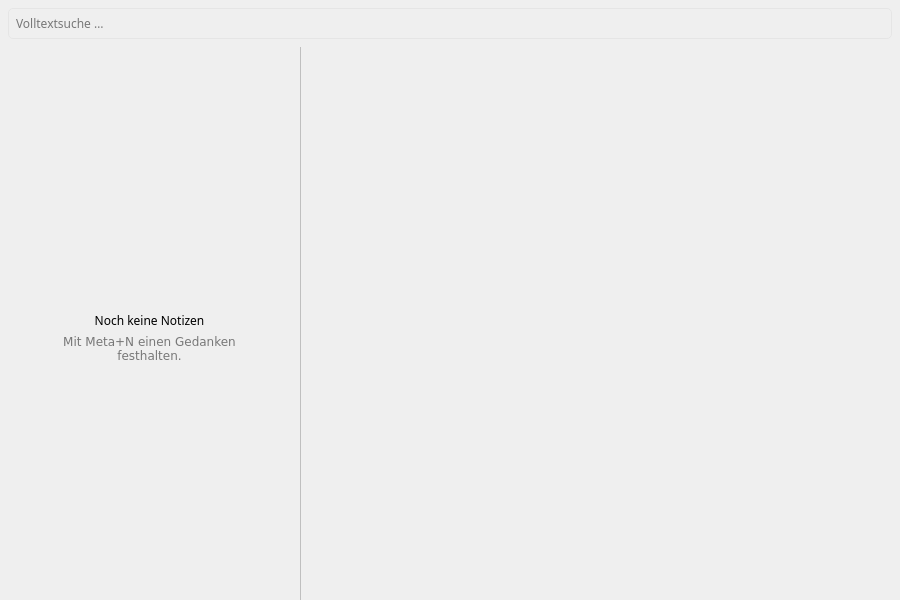
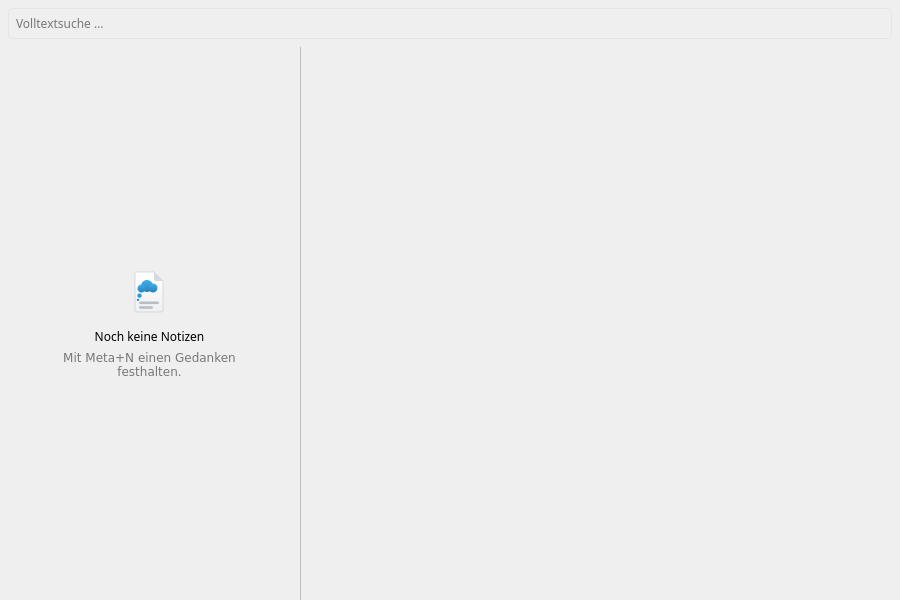
Bibliothek und Kürzel: die drei Auflagen des UI-Reviews (#5, #7)
Nachheilung zum UI-Review vom 01.08.2026 — zwei warn und ein Textbefund,
kein fail.

B3, Meldungsband einzeilig: setWordWrap(false). Der Wortumbruch ließ
KMessageWidget auf ein zweireihiges Layout wechseln, der Knopf stand unter
dem Text und das Band war 72 statt 49 px hoch; Wireframe 2b zeichnet eine
Zeile. Der Text ist kurz und in seiner Länge fest. Zugesichert wird die
Zeile, nicht die Pixelhöhe: Textzeile und „Rückgängig" müssen sich
senkrecht überschneiden. Rot gesehen — Text y=11, Knopf y=34.

B5, zwei fehlende Geometrie-Zusicherungen: der Splitter endet jetzt
nachweislich an der Fensterunterkante (die Drei-Viertel-Schranke allein
ließ bis zu 103 px Leerfläche unten durch), und die Liste behält bei
beiden Fensterbreiten 300 px — die überschüssige Breite gehört dem Detail.
Beide waren am geheilten Stand bereits erfüllt; es fehlte das
Regressionsnetz auf der zweiten Achse.

B9, Meldungstext des seltenen Kürzel-Zweigs: statt der Rückfrage nach dem
Prozessnamen kglobalacceld nennt die Meldung einen überprüfbaren Weg über
die Systemeinstellungen. Keine shelltest-Erwartung hing am Wortlaut — die
Tests prüfen bewusst Vorhandensein und Unterscheidbarkeit, nicht den Text.

Belege nachgezogen: Bildstrecke und Messwerte aus dem Stand nach der
Nachheilung, dazu zwei Randbemerkungen des Reviews miterledigt — der
Helfer setzt das Fenstersymbol (B6) und Wireframe 2c hat beide
Leerzustände als Bild (B7).

Changed region(s): [[0.0622, 0.45, 0.2489, 0.63]]

diff --git a/tests/librarytest.cpp b/tests/librarytest.cpp
@@ -22,6 +22,7 @@
 #include <QTest>
 #include <QTextBrowser>
 #include <QTimer>
+#include <QToolButton>
 
 #include <memory>
 
@@ -851,9 +852,18 @@ void LibraryTest::keepsTheHeaderAtTheTopAndTheRestForTheNotes()
                             .arg(splitter->height())
                             .arg(window.height())));
 
+    // Down to the bottom edge, at that: the check above alone would let a strip
+    // of empty space at the lower end pass (UI review of 01.08.2026).
+    QCOMPARE(splitter->mapTo(&window, QPoint()).y() + splitter->height(), window.height());
+
     // The field belongs into the header, not into the middle of the window.
     QVERIFY2(search->mapTo(&window, QPoint()).y() < 40,
              qPrintable(QStringLiteral("Suchfeld bei y=%1").arg(search->mapTo(&window, QPoint()).y())));
+
+    // The other axis, same class of mistake: wireframe 2b gives the list a
+    // fixed width and the reading pane the rest, so the same number has to come
+    // out at both window widths.
+    QCOMPARE(splitter->widget(0)->width(), 300);
 }
 
 void LibraryTest::putsTheMessageBetweenTheHeaderAndTheNotes()
@@ -889,6 +899,35 @@ void LibraryTest::putsTheMessageBetweenTheHeaderAndTheNotes()
              qPrintable(QStringLiteral("Splitter %1 px hoch in einem %2 px hohen Fenster")
                             .arg(splitter->height())
                             .arg(window.height())));
+    QCOMPARE(splitter->mapTo(&window, QPoint()).y() + splitter->height(), window.height());
+
+    // Wireframe 2b draws text and „Rückgängig" side by side in one row. With
+    // word wrap KMessageWidget puts the button underneath instead and the band
+    // grows by half; the rows are compared rather than the pixel heights,
+    // because those belong to the theme.
+    QLabel *text = nullptr;
+    for (QLabel *label : message->findChildren<QLabel *>()) {
+        if (label->text() == message->text()) {
+            text = label;
+        }
+    }
+    QToolButton *undo = nullptr;
+    for (QToolButton *button : message->findChildren<QToolButton *>()) {
+        if (button->text() == QStringLiteral("Rückgängig")) {
+            undo = button;
+        }
+    }
+    QVERIFY(text);
+    QVERIFY(undo);
+
+    const int textTop = text->mapTo(message, QPoint()).y();
+    const int undoTop = undo->mapTo(message, QPoint()).y();
+    QVERIFY2(textTop < undoTop + undo->height() && undoTop < textTop + text->height(),
+             qPrintable(QStringLiteral("Text y=%1 h=%2, Knopf y=%3 h=%4 — nicht in einer Zeile")
+                            .arg(textTop)
+                            .arg(text->height())
+                            .arg(undoTop)
+                            .arg(undo->height())));
 }
 
 void LibraryTest::keepsTheWindowSizeForTheNextSession()

diff --git a/docs/scrum/reviews/sprint-02-heilung/shot.cpp b/docs/scrum/reviews/sprint-02-heilung/shot.cpp
@@ -19,7 +19,9 @@
 
 #include <QAction>
 #include <QApplication>
+#include <QDir>
 #include <QElapsedTimer>
+#include <QIcon>
 #include <QLineEdit>
 #include <QListView>
 #include <QSplitter>
@@ -85,6 +87,16 @@ int main(int argc, char **argv)
     QApplication app(argc, argv);
     const QString directory = QString::fromLocal8Bit(argv[1]);
 
+    // Ohne Fenstersymbol bliebe der Leerzustand ohne sein Symbol — placeholder-
+    // Page() liest qApp->windowIcon(), und die Ressource steckt nur im Daemon
+    // (UI-Review vom 01.08.2026, B6). Der Pfad ergibt sich aus dem Zielordner:
+    // docs/scrum/reviews/<Ordner> liegt vier Ebenen unter der Wurzel.
+    QDir root(directory);
+    for (int up = 0; up < 4; ++up) {
+        root.cdUp();
+    }
+    QApplication::setWindowIcon(QIcon(root.filePath(QStringLiteral("icons/sc-apps-denkzettel.svg"))));
+
     Store store(sandbox.filePath(QStringLiteral("heilung.db")));
     if (!store.open()) {
         printf("Store konnte nicht geöffnet werden: %s\n", qPrintable(store.lastError()));
@@ -118,6 +130,13 @@ int main(int argc, char **argv)
         window.resize(size);
         window.showLibrary();
         settle(300);
+
+        // Wireframe 2c zeichnet zwei Leerzustaende; der zweite ist genau dieser
+        // Moment — Notizen da, keine ausgewaehlt (UI-Review 01.08.2026, B7).
+        if (size == QSize(900, 600)) {
+            report("Ohne Auswahl 900x600", window);
+            shoot(window, directory, QStringLiteral("heilung-ohne-auswahl-900x600"));
+        }
 
         auto *list = window.findChild<QListView *>();
         list->setCurrentIndex(list->model()->index(0, 0));

diff --git a/src/shell/shortcutregistration.cpp b/src/shell/shortcutregistration.cpp
@@ -25,9 +25,14 @@ QString shortcutRegistrationFailure(ShortcutRegistration registration)
                     "Eintrag an. Nach der Installation steht das Kürzel zur Verfügung; bis dahin "
                     "bleibt das Capture-Fenster über das Symbol im Systemabschnitt erreichbar.");
     case ShortcutRegistration::DaemonKeptNothing:
+        // No process name and no question: whoever does not know what
+        // kglobalacceld is knows no more after reading it. What is left is a
+        // step that can be carried out and checked (KDE HIG, UI review B9).
         return i18n("Meta+N ist beim Kurzbefehl-Dienst nicht angekommen — er hat die Registrierung "
-                    "nicht behalten. Läuft kglobalacceld? Das Capture-Fenster bleibt über das "
-                    "Symbol im Systemabschnitt erreichbar.");
+                    "nicht behalten. Die Kurzbefehle lassen sich in den Systemeinstellungen unter "
+                    "„Kurzbefehle“ prüfen; hilft das nicht, bringt eine neue Anmeldung den Dienst "
+                    "zurück. Das Capture-Fenster bleibt über das Symbol im Systemabschnitt "
+                    "erreichbar.");
     }
 
     return {};

diff --git a/src/ui/librarywindow.cpp b/src/ui/librarywindow.cpp
@@ -148,9 +148,13 @@ LibraryWindow::LibraryWindow(Store *store, QWidget *parent)
     // the window under the header rather than into a screen corner, and it has
     // no close button: it would leave open whether closing carries the
     // deletion out or takes it back (wireframe 2c).
+    // Wireframe 2b draws the band as a single row, text and button side by
+    // side. Word wrap would put the button underneath and make the band half
+    // again as tall; the text is short and fixed in length, so it has nothing
+    // to wrap.
     m_message->setMessageType(KMessageWidget::Warning);
     m_message->setCloseButtonVisible(false);
-    m_message->setWordWrap(true);
+    m_message->setWordWrap(false);
     m_message->addAction(m_undoAction);
     m_message->hide();
 

diff --git a/docs/scrum/reviews/sprint-02-heilung/README.md b/docs/scrum/reviews/sprint-02-heilung/README.md
@@ -10,13 +10,15 @@ Kundenabnahme steht aus.
 | Datei | Inhalt |
 |---|---|
 | `layout-tests-rot.txt` | Testlauf vor der Heilung: Kopfzeile 300 px bei 900×600 und 400 px bei 1200×800 gegen einen `sizeHint` von 41 px; mit Meldung nur 265 px für den Splitter |
-| `layout-tests-gruen.txt` | derselbe Testlauf nach dem Stretch-Faktor |
-| `layout-geometrie.txt` | gemessene Geometrie des geheilten Fensters in allen vier gezeigten Zuständen |
+| `meldungsband-rot.txt` | Nachheilung zum UI-Review: das Band vor `setWordWrap(false)` — Text bei y=11, Knopf bei y=34, also zwei Zeilen |
+| `layout-tests-gruen.txt` | beide Geometriefunktionen nach Stretch-Faktor und Nachheilung |
+| `layout-geometrie.txt` | gemessene Geometrie des geheilten Fensters in allen fünf gezeigten Zuständen |
 | `heilung-900x600.png` | Normalfall, 900×600, Breeze, offscreen |
 | `heilung-1200x800.png` | Normalfall, 1200×800 — die zweite Fenstergröße aus B2 |
-| `heilung-leerzustand-900x600.png` | Leerzustand (Wireframe 2c) |
-| `heilung-meldung-900x600.png` | Meldungszustand nach dem Löschen |
-| `shot.cpp` | Helfer, der die vier Bilder erzeugt; Bau- und Aufrufbefehl stehen im Kopfkommentar |
+| `heilung-leerzustand-900x600.png` | Leerzustand 1 (Wireframe 2c): noch keine Notiz |
+| `heilung-ohne-auswahl-900x600.png` | Leerzustand 2 (Wireframe 2c): Notizen da, keine ausgewählt |
+| `heilung-meldung-900x600.png` | Meldungszustand nach dem Löschen, Band einzeilig (49 px) |
+| `shot.cpp` | Helfer, der die fünf Bilder erzeugt; Bau- und Aufrufbefehl stehen im Kopfkommentar |
 
 ## Befund 1 — Meta+N ohne Wirkung (#5)
 
@@ -29,3 +31,14 @@ Kundenabnahme steht aus.
 Zu wissen wert: `qWarning()` landet auf Ganymed im Journal, nicht auf stderr.
 Ein Terminalmitschnitt des Daemons ist deshalb kein Beleg — geprüft wird mit
 `journalctl --user -t denkzetteld`.
+
+## Nachheilung zum UI-Review vom 01.08.2026
+
+Der UI-Review (`docs/scrum/reviews/2026-08-01-ui-review-s5-heilung.md`) hat
+kein `fail` gefunden, aber zwei `warn` und einen Textbefund. Alle drei sind
+eingearbeitet: einzeiliges Meldungsband (B3), die beiden fehlenden
+Geometrie-Zusicherungen (B5) und der Meldungstext des seltenen
+Kürzel-Zweigs (B9). Die Bildstrecke und die Messwerte oben stammen aus dem
+Stand **nach** dieser Nachheilung; zwei Randbemerkungen des Reviews sind dabei
+mit erledigt — der Helfer setzt jetzt das Fenstersymbol (B6), und Wireframe 2c
+hat beide Leerzustände als Bild (B7).
